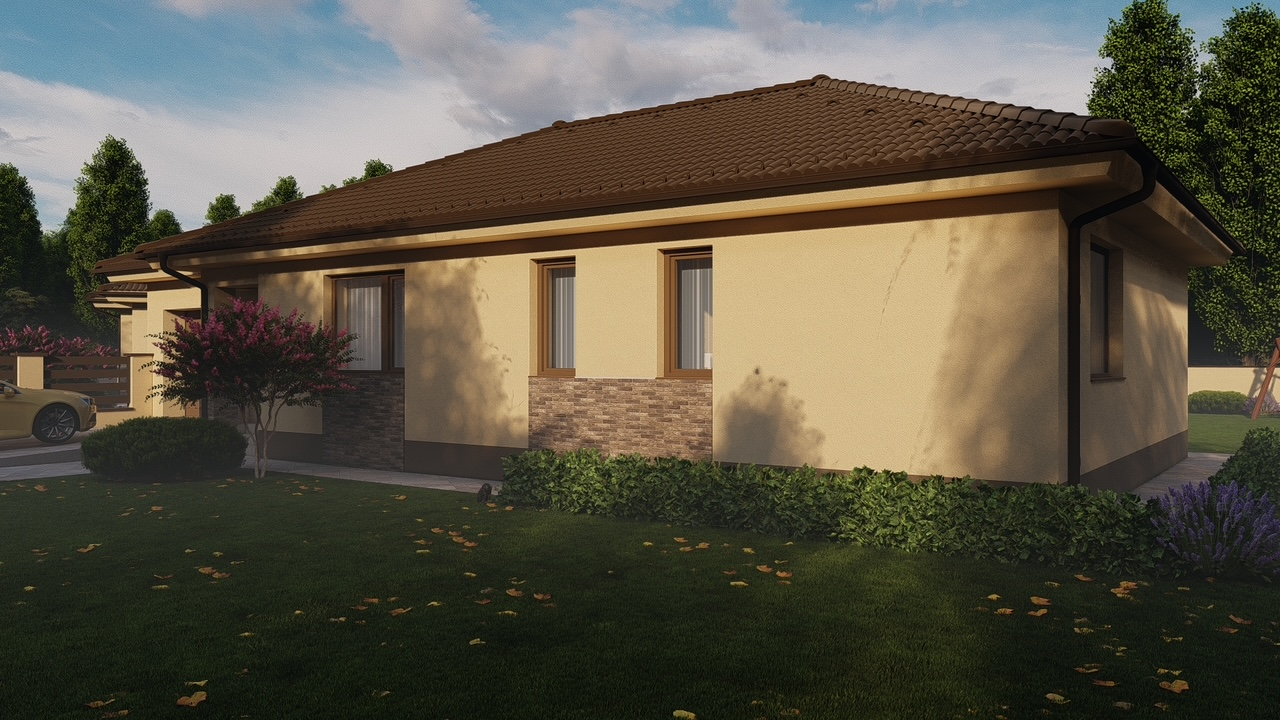
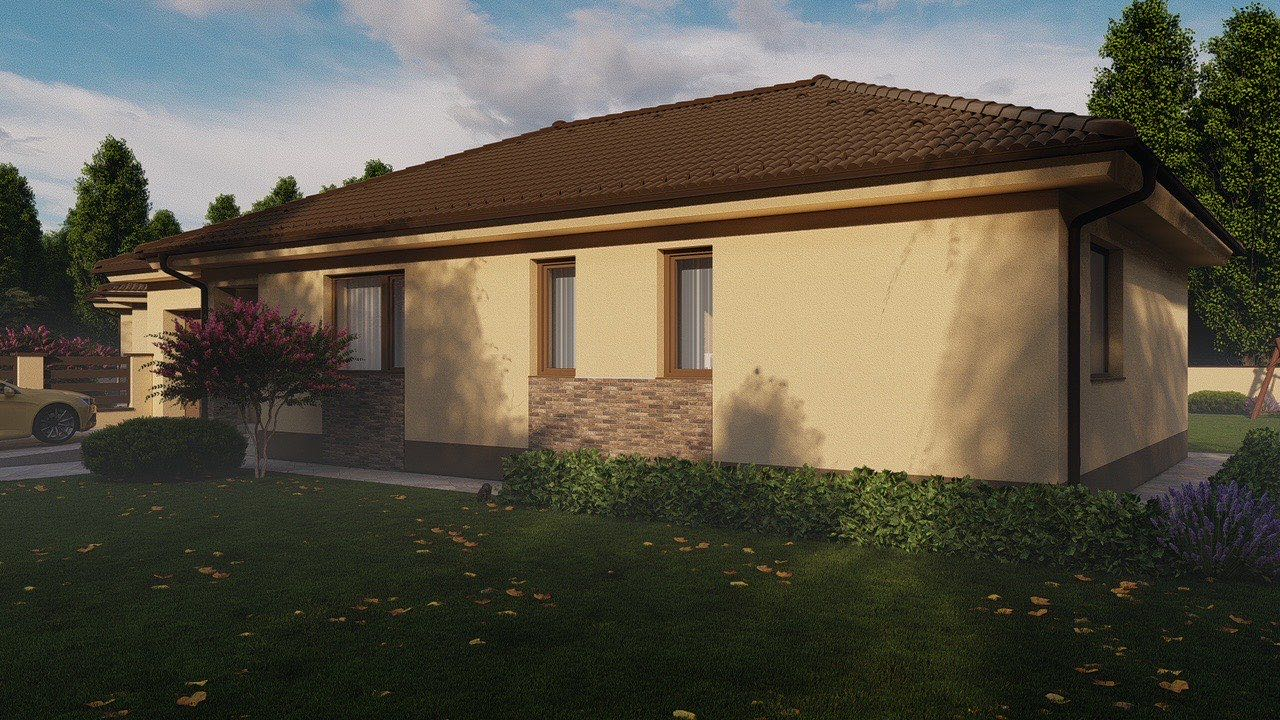
Performance optimalizáció: képkompresszió, lazy loading, preload
- ikerhaz-01-07.jpg: 612KB → ~240KB/db (-60%, összesen -2.6MB)
- Gallery overlay thumbs: loading=lazy (ne töltse be ha nem nyitják meg)
- <link rel="preload"> a hero főképre (ikerhaz-07.jpg) → gyorsabb FCP
- <link rel="preconnect"> fonts.gstatic.com hozzáadva
- Scripts: defer attribútum
- .gitignore: PDF-ek, .claude/, NOTES.md kizárva

diff --git a/index.html b/index.html
@@ -6,7 +6,9 @@
   <title>Eladó Új Építésű Házak – Nyírtura, Liliom utca</title>
   <meta name="description" content="3 minőségi, új építésű ház eladó Nyírturán (Liliom utca). Generálkivitelező által épített, 30-as tégla, padlófűtés, garázs. Érdeklődjön most!" />
   <link rel="preconnect" href="https://fonts.googleapis.com" />
+  <link rel="preconnect" href="https://fonts.gstatic.com" crossorigin />
   <link href="https://fonts.googleapis.com/css2?family=Inter:wght@300;400;500;600;700&family=Playfair+Display:wght@400;600;700&display=swap" rel="stylesheet" />
+  <link rel="preload" as="image" href="images/ikerhaz-07.jpg" />
   <link rel="stylesheet" href="style.css" />
 </head>
 <body>
@@ -498,8 +500,8 @@
     </div>
   </div>
 
-  <script src="https://cdnjs.cloudflare.com/ajax/libs/gsap/3.12.5/gsap.min.js"></script>
-  <script src="https://cdnjs.cloudflare.com/ajax/libs/gsap/3.12.5/ScrollTrigger.min.js"></script>
-  <script src="script.js"></script>
+  <script defer src="https://cdnjs.cloudflare.com/ajax/libs/gsap/3.12.5/gsap.min.js"></script>
+  <script defer src="https://cdnjs.cloudflare.com/ajax/libs/gsap/3.12.5/ScrollTrigger.min.js"></script>
+  <script defer src="script.js"></script>
 </body>
 </html>

diff --git a/script.js b/script.js
@@ -70,6 +70,7 @@ const galleryTotal = document.getElementById('galleryTotal');
 galleryTotal.textContent = galleryImages.length;
 galleryImages.forEach((src, i) => {
   const thumb = document.createElement('img');
+  thumb.loading = 'lazy';
   thumb.src = src;
   thumb.alt = `Látványterv ${i + 1}`;
   thumb.className = 'gallery-thumb' + (i === 0 ? ' active' : '');
